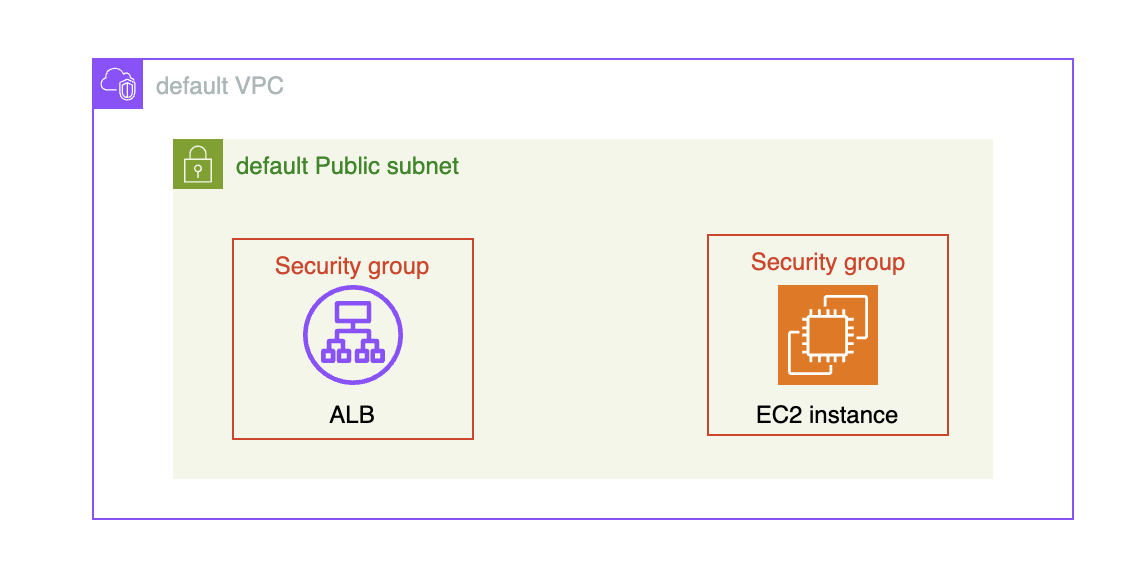
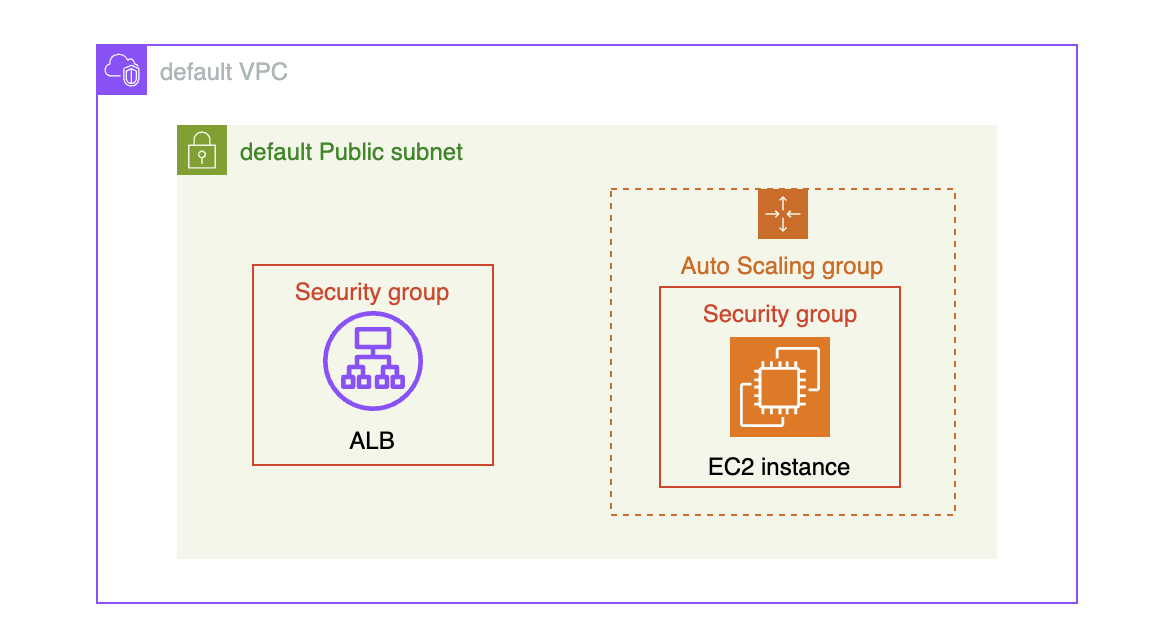
Refactor ASG document #235

diff --git a/aws/auto_scaling_group/terraform/01_basic/CLAUDE.md b/aws/auto_scaling_group/terraform/01_basic/CLAUDE.md
@@ -1,0 +1,49 @@
+# Overview
+
+* This project is to know about AWS ASG.
+
+## Architecture
+
+* EC2 instances intergrate a Auto Scaling group and ALB.
+* When I deploy new instance, I create a new Auto Scaling group. The Auto Scaling group integrate ALB. then new instances in Auto scaling group is healthy, ALB is deregistering old instance. during deregistering in ALB, the client only connect to new instnace. A application in instance alreay have a graceshtudown.
+
+## Scenarioes
+
+1. Scneario is that I manullay operate process. I will create ALB and autoscaling group. I manually intergrate ALB and instnace.
+
+## Requiremnets
+
+* I use ap-northeast-2 AWS region.
+* indent must be 2.
+* terraform
+  * EC2 instnace
+    * install nginx in user data.
+    * EBS is gp3 and encrytpoin is enabled. volume size is 30GB.
+    * instance spec is a t4g.nano
+  * AWS common resources tags.
+    * Name: example1
+    * Project: practice
+    * Environment: poc
+  * terraform structure
+    * provider.tf
+    * variables.tf
+    * terraform.tfvars
+    * ec2.tf(with ASG, Security group, IAM)
+      * ASG does not connect to ALB just create it. becuase I manually intergrate ASG to ALB
+    * alb.tf(with Security group)
+  * ALB security group is open 80/tcp from any. and EC2 security group is only from ALB security group. probably you should security group ingress rule resource of terraform.
+  * VPC
+    * I use default VPC in ap-northeast2. use data resoureces to VPC, public subnets, private subnets.
+    * EC2 instance(or ASG) is in public subnet. becuase I don't have a mony lot. so I just launch EC2 instance to study my goals. but, The EC2 instance can only accept from ALB(security group).
+    * ALB is in public subnet.
+
+## guardrails
+
+* Don't use command below
+  * terraform apply
+  * goployer (run)
+
+## instructions(What I want to)
+
+* create terraform in current directory
+* create goployer manifests. The goployer uses ALB which is created by terraform.

diff --git a/README.md b/README.md
@@ -59,13 +59,15 @@
 | 34 | open WEB UI와 ollama를 사용하여 쿠버네티스 환경에서 사내 데이터과학자 만든 AI모델을, 사내에서 같이 사용할 수 있는 방법을 설명 | [링크](./mlops/mcp_and_openwebui/)|
 | 35 | keras와 minist 예제 | [링크](./mlops/training_examples/minist_with_keras/)|
 | 36 | kubeflow 예졔 | [링크](./mlops/kubeflow/)|
+| 37 | JWT 예제 | [링크](./computer_science/jwt/)|
+| 38 | AWS ASG 예제 | [링크](./aws/auto_scaling_group/terraform/01_basic/)|
 
 ## 다른 문서 링크
 
 * [facebook 쿠버네티스 커뮤니티 발표](https://github.com/choisungwook/terraform_practice)
 * [AWS 2024 Seoul Summit 발표 IPv6예제](https://github.com/choisungwook/aws_ipv6)
 * [ArgoCD 예제](https://github.com/choisungwook/argocd-practice)
-* [테라폼 예제](https://github.com/choisungwook/terraform_practice)
+* [테라폼 예제](https://github.com/choisungwook/terraform_practice)kserver로 서빙하는 예제
 * [karpenter](https://github.com/choisungwook/karpenter)
 * [EKS 예제](https://github.com/choisungwook/eks-practice)
 * [스터디]
